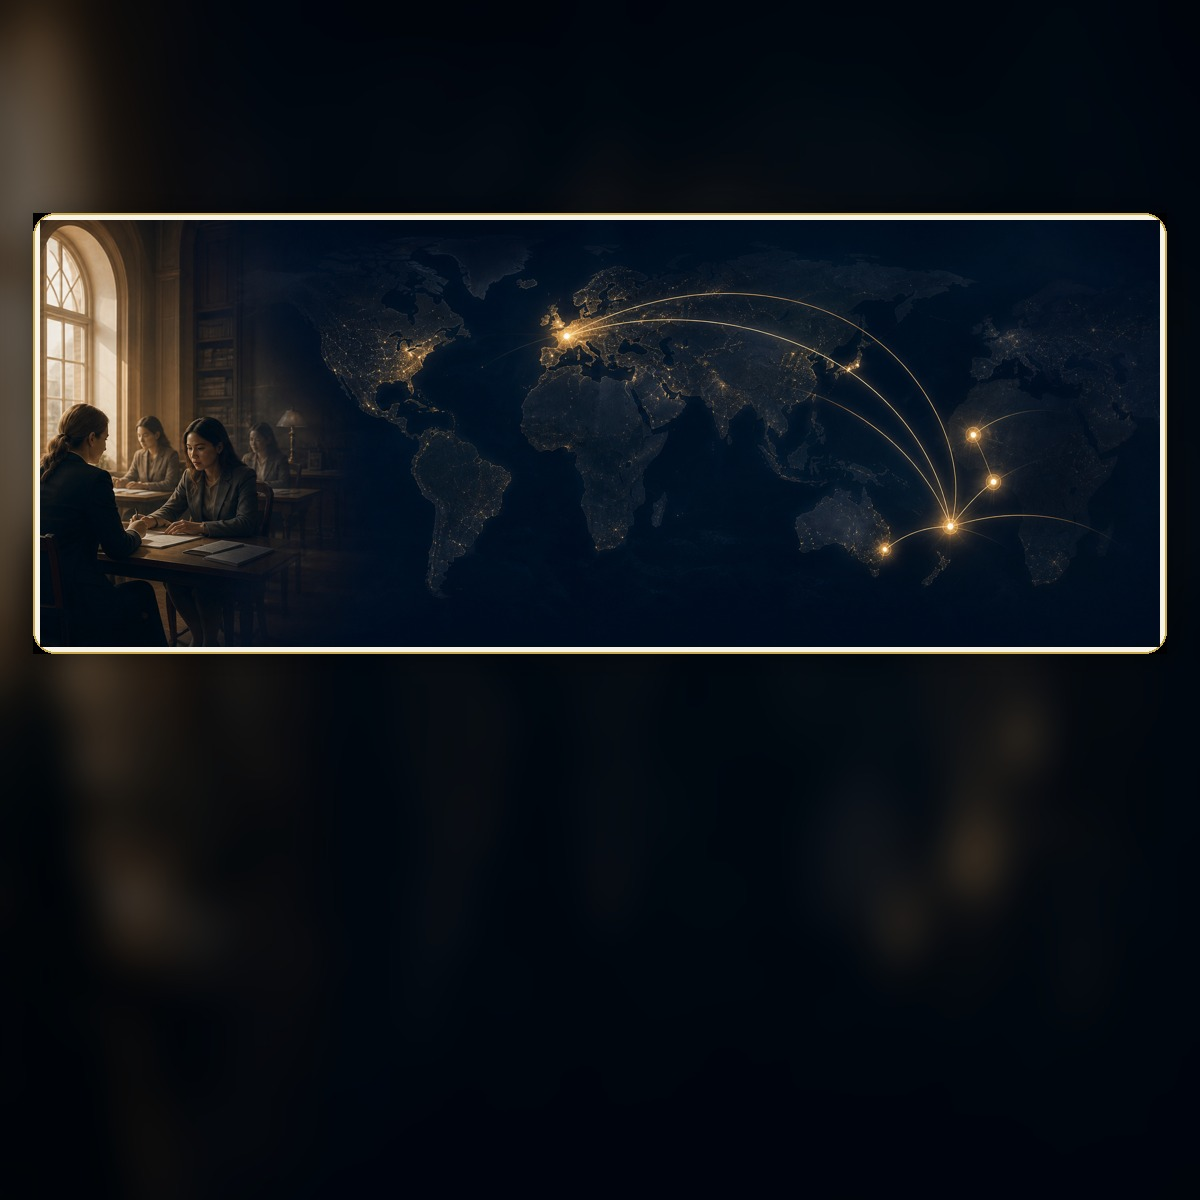
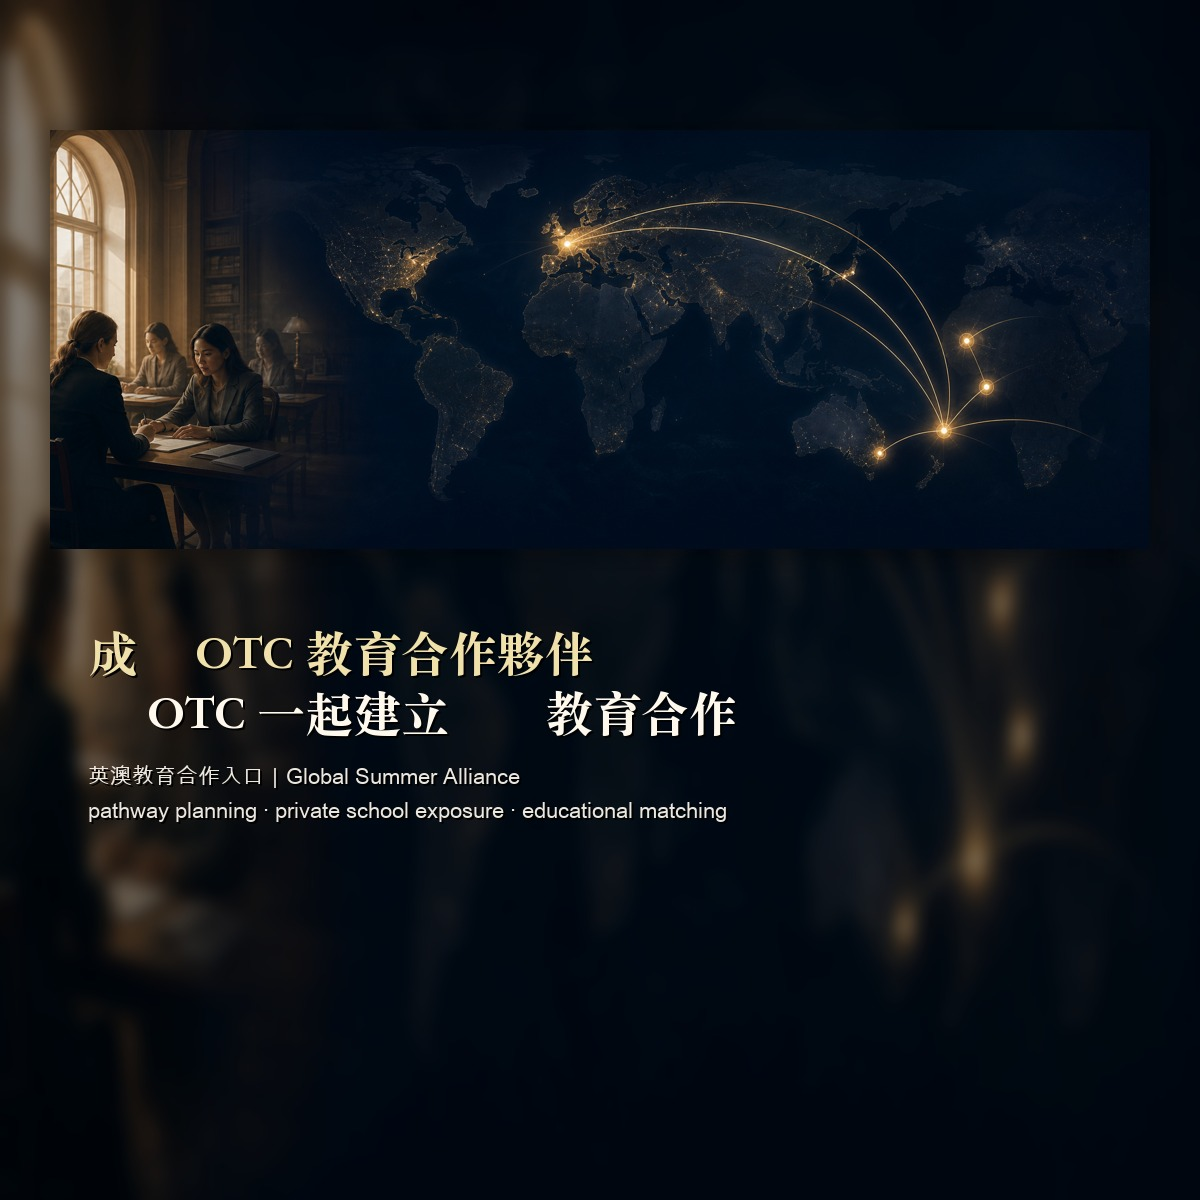
Restore partner hero text overlay and social image text

diff --git a/styles.css b/styles.css
@@ -20587,21 +20587,56 @@ html[lang^="zh"] .about-panel li {
   bottom: auto !important;
   display: flex !important;
   flex-direction: column !important;
-  left: auto !important;
+  left: 6.2% !important;
   padding: 0 !important;
   position: absolute !important;
-  right: 14px !important;
-  top: 10px !important;
-  width: auto !important;
+  right: auto !important;
+  top: 14.5% !important;
+  width: 34% !important;
+  max-width: 500px !important;
   z-index: 5 !important;
 }
 
 .partner-hero-copy .eyebrow,
-.partner-hero-copy h1,
-.partner-hero-copy h2,
-.partner-hero-copy p,
+.partner-language-switch,
 .partner-trust-strip {
   display: none !important;
+}
+
+.partner-hero-copy h1,
+.partner-hero-copy h2,
+.partner-hero-copy p {
+  display: block !important;
+  margin: 0 !important;
+  max-width: 92% !important;
+  text-shadow: 0 2px 10px rgba(0,0,0,0.38) !important;
+}
+
+.partner-hero-copy h1 {
+  color: #f2e0a7 !important;
+  font-family: "Songti SC", "Songti TC", "Songti", "STSong", serif !important;
+  font-size: clamp(24px, 2.7vw, 35px) !important;
+  font-weight: 700 !important;
+  letter-spacing: 0 !important;
+  line-height: 1.14 !important;
+  margin-bottom: 8px !important;
+}
+
+.partner-hero-copy h2 {
+  color: #fffaf0 !important;
+  font-family: "Songti SC", "Songti TC", "Songti", "STSong", serif !important;
+  font-size: clamp(24px, 2.7vw, 35px) !important;
+  font-weight: 700 !important;
+  letter-spacing: 0 !important;
+  line-height: 1.14 !important;
+  margin-bottom: 16px !important;
+}
+
+.partner-hero-copy p {
+  color: rgba(249, 243, 231, 0.94) !important;
+  font-size: clamp(11px, 1vw, 13px) !important;
+  line-height: 1.62 !important;
+  max-width: 78% !important;
 }
 
 .partner-hero .actions {
@@ -20609,6 +20644,9 @@ html[lang^="zh"] .about-panel li {
   gap: 4px !important;
   margin: 0 !important;
   pointer-events: auto !important;
+  position: absolute !important;
+  right: 14px !important;
+  top: 10px !important;
 }
 
 .partner-hero .btn,
